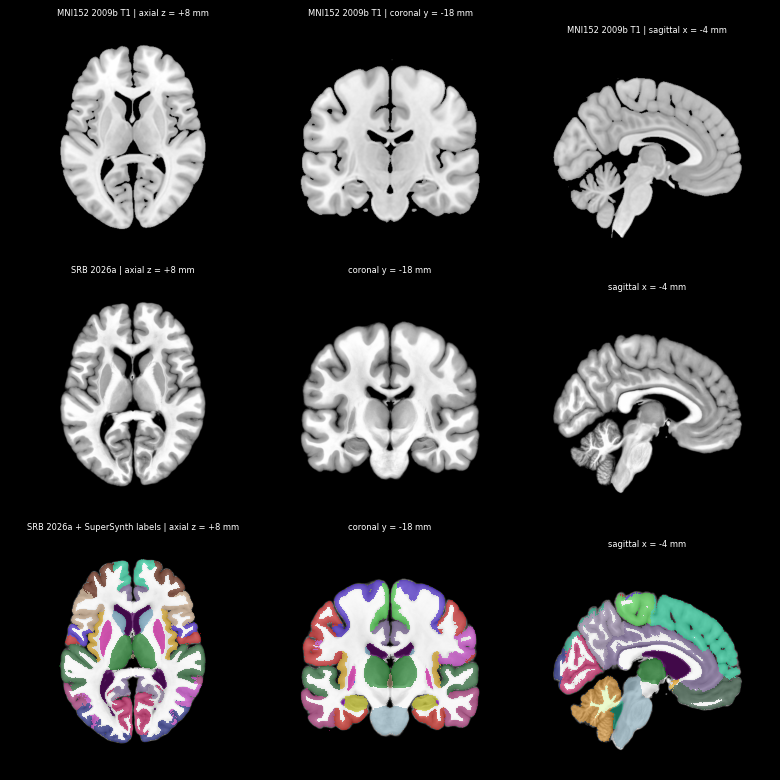
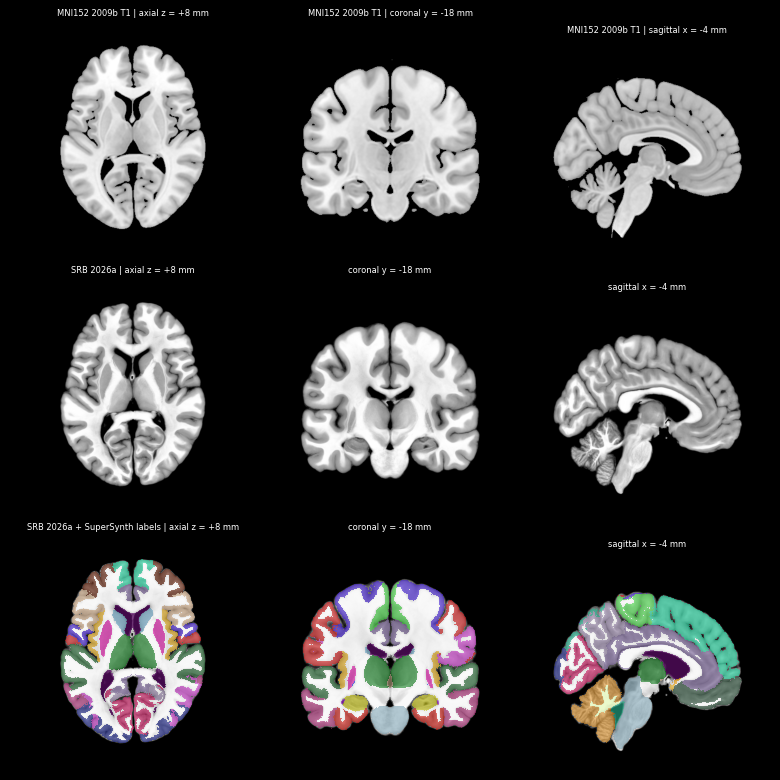
README: drift-corrected SRB 2026a, S-21-46 50 um warped and linear layers
The Neuroglancer link now also opens S-21-46 at 50 um, warped to SRB 2026a and affine-only to MNI.

Claude-Session: https://claude.ai/code/session_01C3pD8K5FBvYgszNaKjJb4A

diff --git a/README.md b/README.md
@@ -14,6 +14,8 @@ Cohort-averaged synchrotron tomography (HiP-CT) of the adult human brain, in MNI
 | SRB 2026a template | 100 µm |
 | SuperSynth labels, MNI | 500 µm |
 | SuperSynth labels, SRB 2026a | 500 µm |
+| S-21-46 HiP-CT, warped to SRB 2026a | 50 µm |
+| S-21-46 HiP-CT, linear (affine only) to MNI | 50 µm |
 | Label-stage warp to MNI: mean displacement | 500 µm |
 | Label-stage warp to MNI: SD of displacement | 500 µm |
 | Label-stage warp to MNI: mean log2 Jacobian | 500 µm |
